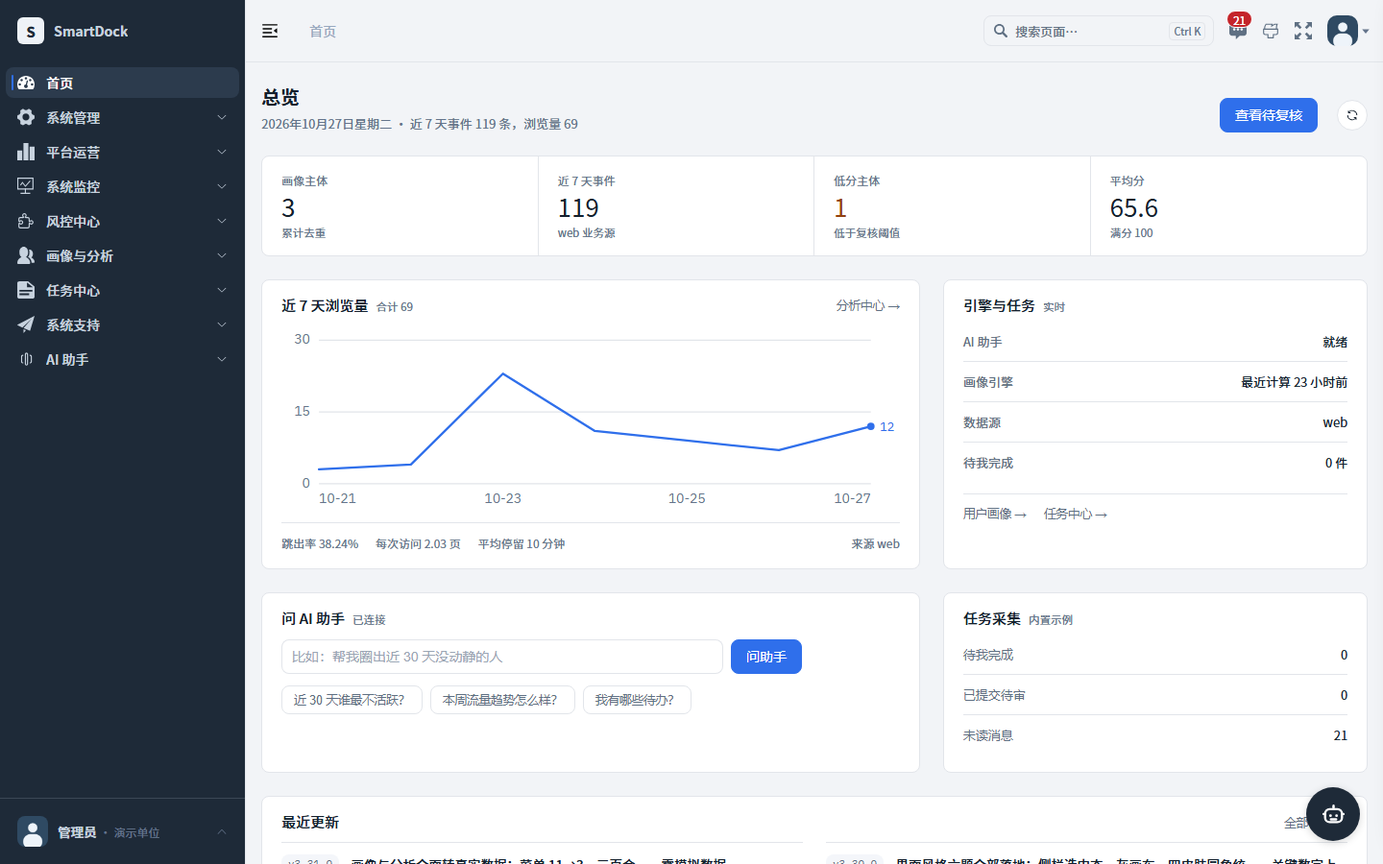
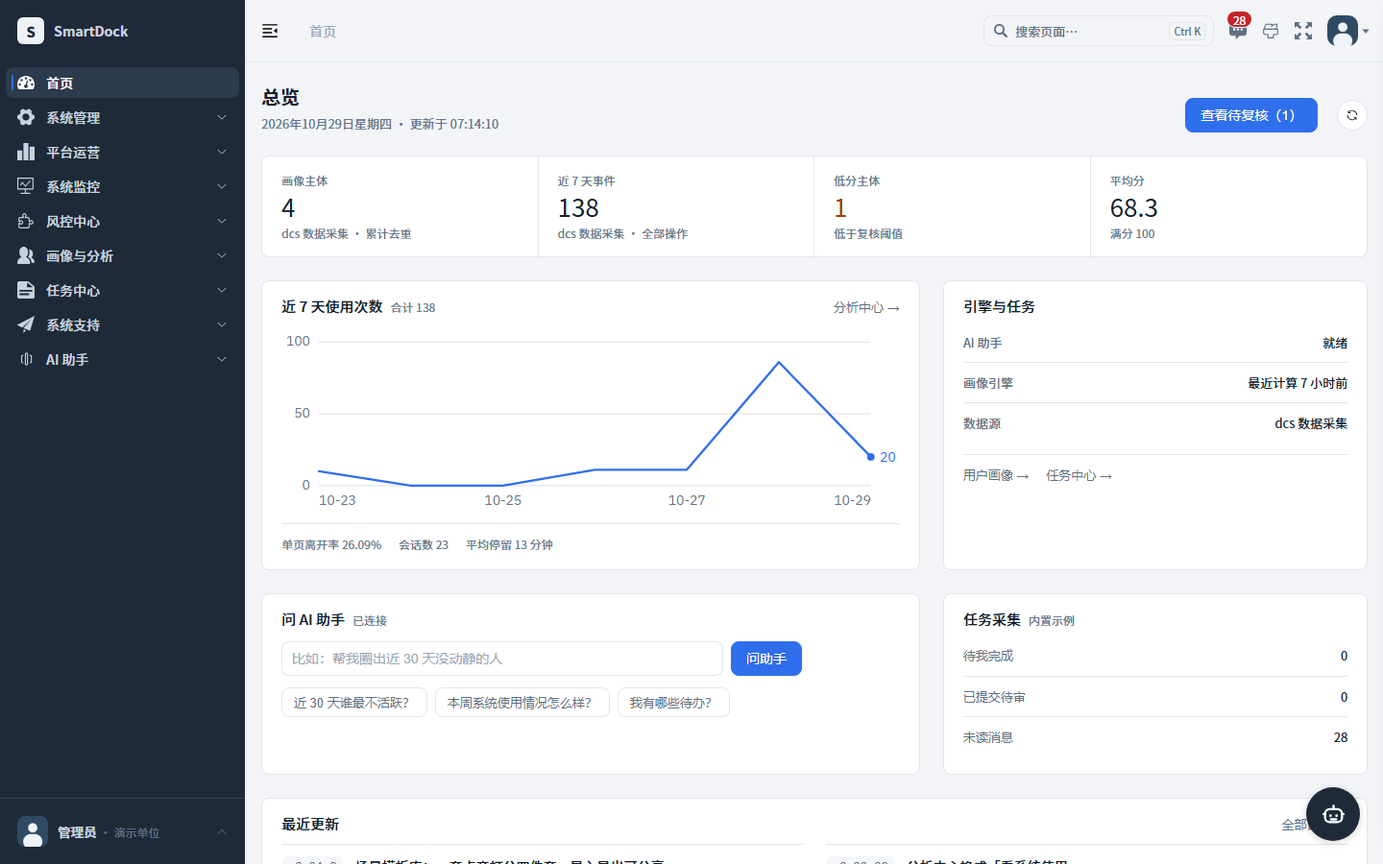
docs(profile): 单源使用口径全面落地——流量词退役/README 九图重拍/演示基线换锚
前端：分析中心列头 PV/UV→浏览量/人数、首页改「近 7 天使用次数」；画像工作室
摘除数据源选择器(单源后是死开关)；profile.ts 清死导出、模板删除对齐 POST
文档：接入指南过度承诺收敛+后台任务示例补齐；使用/引擎/架构四份对齐单源口径；
未配打分规则时「刷满复核队列」的过时警告改为如实说明
README：快速上手换 292 事件/81 会话/4 位同事新锚点，种子脚本换
seed-internal-ops-demo.js(demo-io- 前缀)，九张截图按新口径重拍、图注更新 v3.34.1
AGENTS.md：演示基线口径改写(新数字±10%/旧六数字作废)、截图配方同步

diff --git a/frontend/src/views/index.vue b/frontend/src/views/index.vue
@@ -32,14 +32,14 @@
     </section>
 
     <div class="ov-grid" :class="{ 'is-single': !canAnalytics }">
-      <!-- 主图：近 7 天浏览量（墨青是整屏唯一的数据色） -->
+      <!-- 主图：近 7 天使用次数（墨青是整屏唯一的数据色）——E 片单源换算后口径与分析中心一致 -->
       <section v-if="canAnalytics" class="ov-panel">
         <header class="ov-panel__head">
-          <h2>近 7 天浏览量<span v-if="chart.has">合计 {{ pulse?.pv ?? 0 }}</span></h2>
+          <h2>近 7 天使用次数<span v-if="chart.has">合计 {{ pulse?.events ?? 0 }}</span></h2>
           <button type="button" class="ov-link" @click="go('/insight/profile-analytics')">分析中心 →</button>
         </header>
         <div v-if="chart.has" class="ov-chart">
-          <svg :viewBox="`0 0 ${chart.w} ${chart.h}`" role="img" aria-label="近 7 天浏览量趋势">
+          <svg :viewBox="`0 0 ${chart.w} ${chart.h}`" role="img" aria-label="近 7 天使用次数趋势">
             <g class="grid">
               <line v-for="t in chart.ticks" :key="`g${t.v}`" :x1="chart.padL" :x2="chart.w - chart.padR" :y1="t.y" :y2="t.y" />
             </g>
@@ -55,13 +55,13 @@
         <!-- 取数失败不能伪装成「还没有数据」：三条路分开说 -->
         <p v-else-if="pulseError" class="ov-empty is-error">统计接口暂时取不到数，点右上角刷新重试。</p>
         <p v-else-if="!pulseSource" class="ov-empty">
-          {{ eventSourcesEmpty ? '还没有接入任何数据源，接入后这里会出现最近 7 天的流量趋势。' : '数据源清单暂时取不到，点右上角刷新重试。' }}
+          {{ eventSourcesEmpty ? '还没有接入任何数据源，接入后这里会出现最近 7 天的使用趋势。' : '数据源清单暂时取不到，点右上角刷新重试。' }}
         </p>
         <p v-else class="ov-empty">近 7 天还没有汇总数据，事件入库后这里会出现趋势。</p>
-        <!-- 底部三项跟着图走：没有趋势时「跳出率 0% / 每次访问 0 页」只是在报空 -->
+        <!-- 底部三项跟着图走：没有趋势时「单页离开率 0% / 会话 0」只是在报空 -->
         <footer v-if="chart.has" class="ov-panel__foot">
-          <span>跳出率 {{ fmtBounce }}</span>
-          <span>每次访问 {{ fmtPages }}</span>
+          <span>单页离开率 {{ fmtBounce }}</span>
+          <span>会话数 {{ pulse?.visits ?? '—' }}</span>
           <span>平均停留 {{ avgDuration }}</span>
         </footer>
       </section>
@@ -218,10 +218,9 @@ function statNum(key: 'todo' | 'pendingAudit' | 'unreadNotices'): string {
 }
 
 const fmtBounce = computed(() => (pulse.value?.bounceRate == null ? '—' : `${pulse.value.bounceRate}%`));
-const fmtPages = computed(() => (pulse.value?.pagesPerVisit == null ? '—' : `${pulse.value.pagesPerVisit} 页`));
 
 const today = new Date().toLocaleDateString('zh-CN', { year: 'numeric', month: 'long', day: 'numeric', weekday: 'long' });
-const prompts = ['近 30 天谁最不活跃？', '本周流量趋势怎么样？', '我有哪些待办？'];
+const prompts = ['近 30 天谁最不活跃？', '本周系统使用情况怎么样？', '我有哪些待办？'];
 
 /** KPI 只列当前账号真能拿到的数，拿不到的不摆空格子 */
 const kpis = computed(() => {
@@ -237,7 +236,7 @@ const kpis = computed(() => {
     list.push({
       label: '近 7 天事件',
       value: pulse.value?.events ?? '—',
-      caption: pulseSourceLabel.value ? `${pulseSourceLabel.value} · 业务事件` : noSourceText(eventSourcesEmpty.value)
+      caption: pulseSourceLabel.value ? `${pulseSourceLabel.value} · 全部操作` : noSourceText(eventSourcesEmpty.value)
     });
   }
   if (canProfile.value) {
@@ -272,7 +271,7 @@ const avgDuration = computed(() => {
 /** 7 天折线：手算 SVG，颜色全部走 --app-accent / --app-rule，深浅主题自动跟随 */
 const chart = computed(() => {
   const rows = trend.value.slice(-7);
-  const vals = rows.map((r) => Number(r.pv) || 0);
+  const vals = rows.map((r) => Number(r.events) || 0);
   // 手机档换窄画布：viewBox 随宽度缩时字会一起缩到看不清，宁可少画几列像素
   const w = viewportWidth.value <= 768 ? 322 : 560;
   const h = 170;

diff --git a/frontend/src/api/dcs/core/profile.ts b/frontend/src/api/dcs/core/profile.ts
@@ -71,18 +71,6 @@ export interface ProfileOverview {
   lastCalcTime?: string;
 }
 
-export interface ProfileRankingRow {
-  rank: number;
-  subjectType: string;
-  subjectId: string;
-  displayName?: string;
-  totalScore?: number | string;
-  dimensionScore?: number | string;
-  eventCount: number;
-  lastEventTime?: string;
-  calcTime?: string;
-}
-
 export interface ProfileDimension {
   dimensionId: string;
   tenantId: string;
@@ -240,9 +228,6 @@ export interface ProfileDetail {
 
 // ---------------------------------------------------------------- 查询面
 
-export const pageSubjects = (params?: Partial<ProfileSubjectQuery> & Record<string, unknown>) =>
-  table<ProfileSubjectRow>({ url: `${BASE}/subject/page`, method: 'get', params });
-
 /** 画像主视图行(单源重构 M1·题0-甲): user 视图=sys_user 全员(没事件也列出), 其余身份类型=主体登记跨源聚合 */
 export interface ProfileMainViewRow {
   subjectType: string;
@@ -274,9 +259,6 @@ export const pageSubjectMainView = (
 
 export const getOverview = (source: string, subjectType?: string): Promise<ProfileOverview> =>
   r<ProfileOverview>({ url: `${BASE}/overview`, method: 'get', params: { source, subjectType } });
-
-export const getRanking = (params: { source: string; subjectType?: string; dimension?: string; limit?: number }): Promise<ProfileRankingRow[]> =>
-  r<ProfileRankingRow[]>({ url: `${BASE}/ranking`, method: 'get', params });
 
 export const getScore = (source: string, subjectId: string, subjectType = 'user', tail = 8): Promise<ProfileDetail> =>
   r<ProfileDetail>({ url: `${BASE}/score/${source}/${subjectId}`, method: 'get', params: { subjectType, tail } });
@@ -879,20 +861,6 @@ export const updateEngineConfig = (data: Record<string, any>): Promise<ProfileEn
 
 // ---------------------------------------------------------------- 内部类型
 
-export interface ProfileSubjectQuery {
-  source?: string;
-  subjectType?: string;
-  keyword?: string;
-  minScore?: number;
-  maxScore?: number;
-  /** 风险档筛选: HIGH / MEDIUM / LOW（阈值由 /profile/risk-bands 单源下发） */
-  risk?: string;
-  sortBy?: string;
-  sortOrder?: string;
-  pageNum?: number;
-  pageSize?: number;
-}
-
 /** 风险分档阈值（后端单一来源，前端不再硬编码 75/60） */
 export interface ProfileRiskBands {
   mediumMin: number;
@@ -936,20 +904,6 @@ export const listProfileSources = (): Promise<ProfileSourceSummary> => r<Profile
 // ---------------------------------------------------------------- 第二批: 来源改名/停用
 
 /** 来源管理行: 显示名/启停为配置覆盖层(未配置=默认启用/空显示名), 计数现算 */
-export interface ProfileSourceConfigRow {
-  source: string;
-  displayName?: string | null;
-  enabled: string;
-  subjects?: number | string;
-  events?: number | string;
-}
-
-export const listSourceConfigs = (): Promise<ProfileSourceConfigRow[]> =>
-  r<ProfileSourceConfigRow[]>({ url: `${BASE}/source-config/list`, method: 'get' });
-
-export const saveSourceConfig = (data: { source: string; displayName?: string; enabled?: string }): Promise<void> =>
-  r<void>({ url: `${BASE}/source-config/save`, method: 'post', data });
-
 export const getSubjectSummary = (subjectId: string, subjectType = 'user', source?: string): Promise<ProfileSubjectSummary> =>
   r<ProfileSubjectSummary>({ url: `${BASE}/subject/summary`, method: 'get', params: { subjectId, subjectType, source: source || undefined } });
 
@@ -1156,4 +1110,4 @@ export const exportScenarioTemplate = (params: { code?: string; templateId?: str
   r<Record<string, any>>({ url: `${BASE}/scenario/export`, method: 'get', params });
 
 export const deleteScenarioTemplate = (templateId: string): Promise<boolean> =>
-  r<boolean>({ url: `${BASE}/scenario/${templateId}`, method: 'delete' });
+  r<boolean>({ url: `${BASE}/scenario/${templateId}/delete`, method: 'post' });

diff --git a/frontend/src/views/dcs/profile/analytics.vue b/frontend/src/views/dcs/profile/analytics.vue
@@ -39,7 +39,7 @@
       数据接入由管理员在「引擎与运维 → 引擎运维」里配置
     </p>
     <div class="meta-line">
-      <el-tag effect="plain" type="info">数据源 {{ source }}</el-tag>
+      <!-- 单源重构批末: 恒单源,「数据源 dcs」技术字眼标签不再展示 -->
       <span class="muted">统计区间 {{ overview.from || '—' }} ~ {{ overview.to || '—' }}</span>
       <span class="muted">口径：<span class="trend-seg">使用次数=全部操作事件 ·</span> <span class="trend-seg">活跃用户=去重人员 ·</span> <span class="trend-seg">会话=一次连续使用 ·</span> <span class="trend-seg">单页离开=只做一件事就走</span></span>
     </div>
@@ -99,7 +99,7 @@
              PV/页面类指标没接页面埋点时恒 0, 必须先说清否则像坏了 -->
         <el-alert type="info" show-icon :closable="true" class="caliber-note" title="口径说明">
           <template #default>
-            本页按「统一事件流」统计系统的全部使用行为（登录、提交、审核、任务、页面浏览等）。页面浏览类指标（PV、页面与搜索、路径分析）只对接入了页面埋点的数据源有数，未接入时显示 0 属正常。
+            本页按「统一事件流」统计系统的全部使用行为（登录、提交、审核、任务、页面浏览等）。页面浏览类板块（页面与搜索、路径分析）只对接入了页面埋点的数据有数，未接入时显示 0 属正常。
           </template>
         </el-alert>
   <div v-loading="overviewLoading" class="ui-kpi-strip analytics-kpi analytics-kpi--six">
@@ -208,10 +208,10 @@
               </template>
               <el-table class="ui-table" :data="pageRows">
                 <el-table-column prop="label" label="页面" min-width="180" show-overflow-tooltip />
-                <el-table-column prop="pv" label="PV" width="80" align="right" />
-                <el-table-column prop="uv" label="UV" width="80" align="right" />
-                <el-table-column prop="visits" label="访问" width="80" align="right" />
-                <el-table-column label="PV 占比" width="140">
+                <el-table-column prop="pv" label="浏览量" width="80" align="right" />
+                <el-table-column prop="uv" label="人数" width="80" align="right" />
+                <el-table-column prop="visits" label="会话数" width="80" align="right" />
+                <el-table-column label="浏览占比" width="140">
                   <template #default="{ row }">
                     <div class="share-cell">
                       <el-progress :percentage="clamp(Number(row.share))" :show-text="false" :stroke-width="6" />

diff --git a/frontend/src/views/dcs/profile/studio.vue b/frontend/src/views/dcs/profile/studio.vue
@@ -2,9 +2,7 @@
   <div class="app-container studio-page">
     <dcs-operations-page-header eyebrow="画像引擎" title="画像工作室" subtitle="套场景模板点齐四件套，或自建维度配权重：改完发布，重算后生效。">
       <template #actions>
-        <el-select v-model="source" class="source-select" @change="onSourceChange">
-          <el-option v-for="s in sourceOpts" :key="s.value" :label="s.label" :value="s.value" />
-        </el-select>
+        <!-- 单源重构批末: 恒单源, 源下拉退役(source 钉死内置源) -->
         <el-button @click="goBack">返回画像</el-button>
         <el-button :loading="loading" @click="loadAll">刷新</el-button>
       </template>
@@ -814,15 +812,14 @@ import {
   type ScenarioCatalog,
   type ScenarioTemplateSummary
 } from '@/api/dcs/core/profile';
-import { useSourceOptions, autoPickSource } from '@/composables/useProfileSources';
+import { useSourceOptions } from '@/composables/useProfileSources';
 import DcsOperationsPageHeader from '@/components/DcsOperationsPageHeader/index.vue';
-const { list: sourceOpts, ensureSources } = useSourceOptions('subject');
+const { ensureSources } = useSourceOptions('subject');
 
 const router = useRouter();
 
+// 单源重构: 全站事件写入收口到内置统一源, 这里钉死不再可选
 const source = ref('dcs');
-// 真实数据优先: 首挂单轮加载(三审 dspro P1)——onMounted 等清单→autoPick→一次加载, 不再双载
-const initialSource = source.value;
 const activeTab = ref('scenario');
 const loading = ref(false);
 const dimensionLoading = ref(false);
@@ -1553,10 +1550,6 @@ const removeScenario = async (tpl: ScenarioTemplateSummary) => {
   ElMessage.success('已删除');
 };
 
-const onSourceChange = async () => {
-  await loadAll();
-};
-
 const createDraft = async () => {
   ruleActionLoading.value = true;
   try {
@@ -1810,7 +1803,6 @@ onMounted(async () => {
     // 能力清单失败不阻塞页面
   }
   await ensureSources();
-  if (source.value === initialSource) autoPickSource(sourceOpts, source);
   await loadAll();
 });
 </script>
@@ -1827,11 +1819,6 @@ onMounted(async () => {
 }
 .studio-page :deep(.dcs-ops-header__actions) {
   flex-wrap: wrap;
-}
-@media (min-width: 993px) {
-  .source-select {
-    width: 150px;
-  }
 }
 /* el-table 走 CSS 变量：表头无底带、行线走令牌、正文灰阶（不重写组件） */
 .studio-page :deep(.el-table) {

diff --git a/AGENTS.md b/AGENTS.md
@@ -99,7 +99,7 @@ D:\Git\git-gitee\smart-dock\   # 单仓：前端 + 后端（gitee 开源）
 | 低分复核 | 低于阈值进队列；确认/忽略后除非分数继续下降，不重复打扰 |
 | 数据导入 | 外部网站接入（公开采集口/SDK/siteKey）已于 2026-10-23 移除；数据进系统只有两条路：业务系统走 `ProfileEventPublisher`，离线数据走 CSV 补录 |
 | 自动汇总 | 事件写入 → 2s 去抖 → 会话重建（锁+事务、读取窗口左移 30 分钟）→ 日汇总 |
-| 演示基线 | 合成演示库固定口径：531 事件 / 135 会话 / 316 PV / 40 UV / 跳出 29.63% / 2.34 页每次——**测试后必须复原到这六个数** |
+| 演示基线 | 内部协作故事口径（2026-10-28 单源重构 E 片起，旧访客六数字 531/135/316/40/29.63%/2.34 作废）：事件 ~292 / 用户 4 / 会话 81 / 单页离开 28.4% / 周活 4 / 新同事 1 首周激活 100% / 两步上手 100%——**测试后复原到这组数**（自监控在跑会自然小幅漂移，±10% 内算复原；种子=seed-internal-ops-demo.js，uid 前缀 demo-io-） |
 
 ## DDL 与部署口径
 
@@ -172,7 +172,7 @@ D:\Git\git-gitee\smart-dock\   # 单仓：前端 + 后端（gitee 开源）
 
 1. 本机没有 5432 的 PG、也没有 6379 的 Redis；yml 里 `127.0.0.1` 是模板默认，起后端必须带覆盖参数（见验收提示词铁律）。
 2. 查本仓数据面**一律用 `dock-pg` / `dock-redis`**；会话里若同时挂载了默认库不属于本项目的其它 PG/Redis 工具，一律不用。
-3. 库分工（本机开发环境）：画像/分析取数、演示数据与截图 → `smartdock_shots`（基线六数字见「领域概念速查」）；跑后端的实验库 → `smartdock_scratch`。同实例上除 `smartdock_` 前缀的库一律不许读写。
+3. 库分工（本机开发环境）：画像/分析取数、演示数据与截图 → `smartdock_shots`（演示基线见「领域概念速查」）；跑后端的实验库 → `smartdock_scratch`。同实例上除 `smartdock_` 前缀的库一律不许读写。
 4. MCP 纪律：先列清单、再看列定义、后写 SQL；`pg_query` 每次一条、参数 `$1/$2` 绑定；DDL/DML 前先同条件 SELECT 验证影响面并等用户确认；行数估算不作数，真数用 `count(*)`。
 
 ---
@@ -210,13 +210,13 @@ D:\Git\git-gitee\smart-dock\   # 单仓：前端 + 后端（gitee 开源）
 1. 后端编译 + 单测全绿（新增功能必须配 `@Tag("local")` 纯函数单测，参照 `AnalyticsSessionizerTest`）
 2. 前端 `vite build` 过
 3. **活体验证**：起服务实测，禁止「API 通 = UI 可用」；浏览器**双视角**（超管 + 普通用户）权限实测；切账号先清 localStorage
-4. 测试数据用独立 eventUid 前缀，验完删除并 rebuild，**口径复原到演示基线六数字**；统计断言落到具体数字，不许「看起来有数据」
+4. 测试数据用独立 eventUid 前缀，验完删除并 rebuild，**口径复原到演示基线（见速查表该行）**；统计断言落到具体数字，不许「看起来有数据」
 
 **配套细则：**
 
 - **样式改动必须视觉验收**：改 CSS/样式/图表/颜色/布局，写完后走 DOM 断言（`getComputedStyle` 实际值，attribute 值≠渲染值）→ 截图 → **当前模型直接用 Read 打开图片目检**（模型支持图片输入时不调视觉 MCP）→ 至少 2 个不同数据规模回归，缺一不可。仅当模型不支持图片输入或用户明确要求时才降级到视觉 MCP。SVG 样式一律 `:style` CSS 对象（见 frontend/AGENTS.md 铁律）
 - **防重复验收 / 双视角矩阵**：凡写进交付验收清单的步骤（哪个账号→哪个页面→点什么→应看到什么），交付前必须自己按**完全相同的步骤**走一遍，每个"应看到"亲眼确认；涉及权限/可见性/状态的改动至少验两个视角（超管 + 普通用户），只测超管等于只测一半；**首次路径**（清缓存冷启动）也要走
-- **界面变了顺带刷 README 截图**：动了用户看得见的界面（壳层/首页/画像/分析/助手），收口前跑 `cd frontend && node scripts/readme-screenshots.mjs` 重拍六张（1440×900 亮色）并更新图注版本号；演示库先用 `backend/script/demo/seed-analytics-demo.js --days 30 --visitors 40` + 「数据分析→重建汇总」刷新，跨天重播前必须先按 `demo-` 前缀清旧数据，口径回到 531/135/316/40/29.63%/2.34
+- **界面变了顺带刷 README 截图**：动了用户看得见的界面（壳层/首页/画像/分析/助手），收口前跑 `cd frontend && node scripts/readme-screenshots.mjs` 重拍六张（1440×900 亮色）并更新图注版本号；演示库用 `backend/script/demo/seed-internal-ops-demo.js --days 30` + 「数据分析→重建汇总」刷新（内部协作故事，uid 前缀 demo-io-），跨天/换参重播前先按 `demo-io-` 前缀清旧数据，口径回到新基线（见「领域概念速查·演示基线」行）。旧 seed-analytics-demo.js 是退役的访客故事版，仅留档不再作为基线
 - **缺陷定性必须交叉实证**：亲读代码 + git log + 存量数据 + 运行实证四路对质——审查报告（多席审查/子智能体）是**线索不是结论**，未经实证不得当 bug 修，也不得把未复现的问题谎报为已修
 - **替换已用顺手的界面须满足五条**：零操作默认价值 / 旧能力不倒退 / 核心路径 ≤2 次点击 / 真人可用 / 并行灰度过渡——不满足就别替换
 - 修复类提交必须在更新日志页补人话条目（≤3 条，类型=新增/优化/修复）并验收首位徽标；2026-10-23 起日志改为数据库驱动（`dcs_changelog`，草稿→发布→通知），操作口径见 `frontend/AGENTS.md`「更新日志铁律」

diff --git a/docs/profile-integration.md b/docs/profile-integration.md
@@ -1,6 +1,6 @@
 # 画像接入指南（10 分钟版）
 
-> 本文是「怎么把你的业务系统接进画像」的**唯一真源**。系统内置的「任务转发」演示模块（`ruoyi-modules/ruoyi-dcs`）就是官方参考实现，本文所有写法与它的真实代码一致。
+> 本文是「怎么把你的业务系统接进画像」的**唯一真源**。系统内置的「任务转发」演示模块（`ruoyi-modules/ruoyi-dcs`）是官方参考实现，套路与本文一致；它是早期代码，事件名 setter 用的还是旧名 `setEventType`、编号第一段也没带模块名——新接入请按本文写（`setEventName` + 模块名前缀），demo 只是结构参考。
 >
 > 适用：当前版本（**单源口径已生效**：`source` 字段兼容保留，传任意值或不传都会被引擎统一收口，你的调用代码怎么写都能落库）。
 
@@ -23,14 +23,15 @@
 ## 2. 挂模块五步（新建业务模块必读）
 
 1. `backend/ruoyi-modules/pom.xml` 的模块清单加一行你的模块名；
-2. 你模块的 pom 依赖照抄 `ruoyi-dcs/pom.xml`，另加一行 `org.dromara:ruoyi-profile-engine`（版本由父工程统一管理，不用写版本号）；
+2. 你模块的 pom 依赖照抄 `ruoyi-dcs/pom.xml` 即可——它**已经包含** `org.dromara:ruoyi-profile-engine` 这行（版本由父工程统一管理），自建 pom 时照抄不要再重复声明；
 3. `backend/ruoyi-admin/pom.xml` 加上你模块的依赖。**不加这行模块不会进安装包，且不会报错**；
 4. **包名红线**：代码必须放 `com.smartdock.你的模块名` 包下。启动扫描和数据库映射扫描都按这个前缀写死，包名放错=功能静默失效；
 5. Service 里注入 `ProfileEventPublisher`（普通 Spring 接口，构造注入），照第 3 节发事件。
 
-## 3. 发第一条事件（整类可粘贴编译）
+## 3. 发第一条事件（整类可粘贴编译；import 段省略——lombok 与 profile-engine 依赖同工程已有）
 
 ```java
+@Slf4j
 @RequiredArgsConstructor
 @Service
 public class BizEventReporter {
@@ -130,7 +131,7 @@ public class BizEventReporter {
 1. 去「画像工作室」新建维度，从模板卡（活跃度/完成率/内容消费/流失风险）挑一张一键预填，把模板里的示例事件名换成你自己的；
 2. 配好权重发布 → 触发重算 → 约 2 秒内分数更新。
 
-> **警告**：不配打分规则就大量发事件，50 分低于复核线 60，会把「低分复核」队列刷满（全是假警报）。要么先配规则，要么先在引擎运维把复核暂停。
+> **说明**：未配置打分口径时，画像页会如实标注「未配置打分规则」，50 分只是占位、**不会**进入低分复核队列（旧版本会刷满队列的问题已修复）——可以放心先接事件、后配规则。
 
 ## 10. 不写 Java 也能进数据
 
@@ -138,7 +139,7 @@ public class BizEventReporter {
 
 ## 附录 A：长度与命名红线
 
-eventName ≤64 · eventUid ≤128 · subjectType ≤32 · subjectId ≤64 · anonymousId/sessionId ≤128 · schemaVersion ≤32（source 已被单源收口，不校验）。属性键名英文驼峰（`^[A-Za-z][A-Za-z0-9_]{0,62}$`）。超长直接抛错拒收。
+eventName ≤64 · eventUid ≤128 · subjectType ≤32 · subjectId ≤64 · anonymousId/sessionId ≤128 · schemaVersion ≤32（source 已被单源收口，不校验）。属性键名建议英文驼峰（`^[A-Za-z][A-Za-z0-9_]{0,62}$`）——事件入库本身不校验键名格式，但维度/评分模型配置里要按这个正则引用属性键，键名不合规的事件属性届时引用不到。字段超长直接抛错拒收。
 
 ## 附录 B：术语一句话
 

diff --git a/docs/profile-engine.md b/docs/profile-engine.md
@@ -14,11 +14,11 @@
 | `profile_protocol` | 业务源接入协议清单（`profile.protocol/v1`） | `source`、事件清单、主体类型、保留期 |
 | `profile_schema_registry` | 事件 Schema 注册与轻校验 | `event_name`、`schema_version`、`required`、`properties` |
 | `profile_identity_link` / `profile_identity_merge` | 身份图谱：匿名 → 登录主体归并 | `identity_type`、`identity_value`、`subject_id`、合并记录 |
-| `profile_score_dimension` | 维度治理 | `dim_code`、`source`、`calc_mode`、`calc_config(jsonb)`、`score_max`、`enabled`、`builtin` |
-| `profile_score_rule` | 评分规则/权重 | `rule_version`、`weights(jsonb)`、`enabled` |
+| `profile_score_dimension` | 维度治理（按 `subject_type` 分套） | `dim_code`、`source`、`subject_type`、`calc_mode`、`calc_config(jsonb)`、`score_max`、`enabled`、`builtin` |
+| `profile_score_rule` | 评分规则/权重（按 `subject_type` 分套） | `rule_version`、`weights(jsonb)`、`subject_type`、`enabled` |
 | `profile_recalc_batch` | 批量重算批次 | `status`、`total_subjects`、`done_subjects`、`last_subject_id`、`error_msg` |
 | `profile_score_snapshot` | 版本化快照 | `total_score`、`dimension_detail(jsonb)`、`rule_version`、`prev_snapshot_id`、`calc_time` |
-| `profile_score_model` / `profile_model_run` / `profile_model_snapshot` | 通用评分模型（RFM 只是预设） | `model_config(jsonb)`、分箱/权重、模型快照链 |
+| `profile_score_model` / `profile_model_run` / `profile_model_snapshot` | 通用评分模型（RFM 只是预设；按 `subject_type` 分套） | `model_config(jsonb)`、分箱/权重、模型快照链 |
 | `profile_segment` / `profile_segment_member` / `profile_segment_run` | 标签分群 | 规则 DSL、静态名单、成员快照、运行记录 |
 | `profile_review_queue` | 低分复核队列 | 触发来源、分数、状态、确认/忽略人 |
 | `profile_engine_config` | 按业务源的引擎开关 | 自动重算、复核、去抖窗口 |
@@ -182,8 +182,9 @@ profile_event
   | 编码 | Excel/Windows 导出的首列 BOM 会自动剥掉；换行与引号按标准 CSV 转义 |
   | 演示数据 | 官方合成演示脚本写入的数据带 `demo-` 前缀 eventUid；跨天重播前先按前缀清旧数据，否则叠加 |
 
-分析页面在「画像与分析 → 数据分析」，包含数据导入、流量概览、页面与搜索、
-路径分析、转化漏斗、留存分析、活跃分析、访问明细、自定义分析和实时看板十个页签。
+分析页面在「画像与分析 → 数据分析」，包含数据导入、使用概览、页面与搜索、
+路径分析、转化漏斗、持续使用、活跃分析、使用明细、自定义分析和实时看板十个页签
+（2026-10-28 单源换算后按「系统使用」口径统计；页面浏览类指标只对接入页面埋点的数据有数）。
 
 ## 6. 魔改指南：把画像改成你的业务（三层路径）
 

diff --git a/docs/usage.md b/docs/usage.md
@@ -51,7 +51,7 @@
 
 | 菜单 | 能做什么 |
 |---|---|
-| 数据分析 | 流量/页面/漏斗/留存/访问明细，读真实业务事件 |
+| 数据分析 | 使用概览/页面/漏斗/留存/使用明细，读真实业务事件 |
 | 用户画像 | 看本单位全员名单与画像详情（各维度最新得分 + 历史走势，没产生过操作的人也列出）；页内「低分复核」抽屉看低于阈值的主体并确认/驳回，可调复核阈值与「自动记录行为」开关 |
 | 引擎与运维（折叠组） | 画像工作室（维度/权重治理）、画像 RFM（模型运行与分层）、画像分群、合规中心，以及引擎运维页——数据回放/保留期/身份合并、引擎健康巡检、重算与协议 Schema/测试发送三合一 |
 
@@ -76,15 +76,15 @@
 | 页签 | 能看什么 |
 |---|---|
 | **数据导入** | CSV 离线补录（最多 5000 行，按 eventUid 幂等）+ 全域总览（跨业务源事件账本直读）；外部网站接入能力已于 2026-10-23 移除 |
-| 流量概览 | PV/UV/访问次数/新访客/跳出率/平均停留/每次页数 + 趋势 + 渠道/设备/浏览器/地域 |
-| 页面与搜索 | 页面 PV/UV/占比、搜索词排行、事件分布 |
+| 使用概览 | 使用次数/人数/会话数/新同事/单页离开率/平均停留 + 趋势 + 终端/浏览器（页面浏览类指标只对接入页面埋点的数据有数） |
+| 页面与搜索 | 页面浏览量/人数/会话数/占比、搜索词排行、事件分布 |
 | 路径分析 | 页面间流转路径（进入/去向/跳出页）与步骤明细 |
 | 活跃分析 | 按日活跃访客与事件量趋势 |
 | 转化漏斗 | 内置「访问 → 搜索 → 注册」漏斗；可新建/编辑/删除；按访客顺序与窗口计算 |
-| 留存分析 | 按首次访问日分组的 7/14/30 天回访热力表 |
-| 访问明细 | 会话列表（渠道/设备/跳出筛选）+ 事件时间线抽屉 |
-| 自定义分析 | 11 种维度 × 4 种指标（PV/UV/访问次数/事件数）自由组合 |
-| 实时看板 | 最近 15 分钟事件流与活跃访客 |
+| 持续使用 | 按首见日分组的 7/14/30 天回访热力表 |
+| 使用明细 | 会话列表（终端/浏览器/单页离开筛选）+ 事件时间线抽屉 |
+| 自定义分析 | 11 种维度 × 4 种指标（浏览量/人数/会话数/事件数）自由组合 |
+| 实时看板 | 最近 5 分钟事件流与活跃用户 |
 
 演示数据：前后端启动后执行 `backend/script/demo/seed-analytics-demo.js`（管理员
 账号经 CSV 导入端点写入，**同一天内**可重复执行、按 eventUid 幂等，跨天重跑会生成

diff --git a/docs/architecture.md b/docs/architecture.md
@@ -89,9 +89,9 @@
 | 标签分群/复核 | `profile_segment*`、`profile_review_queue`、`profile_engine_config` | 规则/静态名单分群；低分复核抑制重复入队；按源开关自动重算 |
 | 分析中心 | `analytics_session/daily/funnel` | 会话化（显式 sessionId 或 30 分钟切分）→ 日汇总 → 趋势/漏斗/留存/自定义 |
 
-分析中心不新增埋点：复用 `profile_event`，按 `source` 重建。数据进系统只有两条路：
-内部业务系统走事件协议（`ProfileEventPublisher`），离线数据走 CSV 导入；两条路都过幂等与 Schema 校验（外部网站采集口已于 2026-10-23 移除）。
-`web` 源在 `profile_engine_config` 中默认关闭自动重算与低分复核，避免流量事件污染画像队列。
+分析中心不新增埋点：复用 `profile_event`（单源口径下全部事件写入收口到内置统一源）。
+数据进系统只有两条路：内部业务系统走事件协议（`ProfileEventPublisher`），离线数据走 CSV 导入；
+两条路都过幂等与 Schema 校验（外部网站采集口已于 2026-10-23 移除）。
 
 ## 4. 文件安全（ruoyi-file-security，包 com.smartdock）
 
